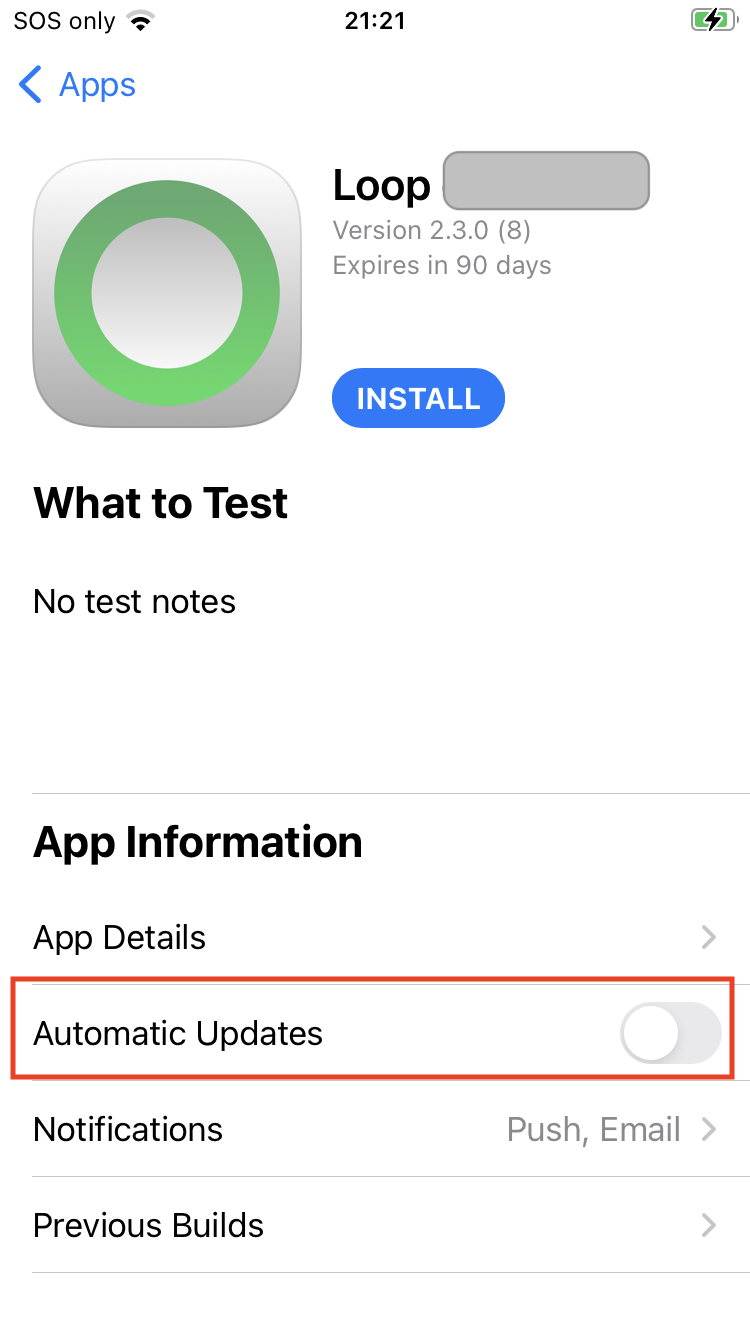
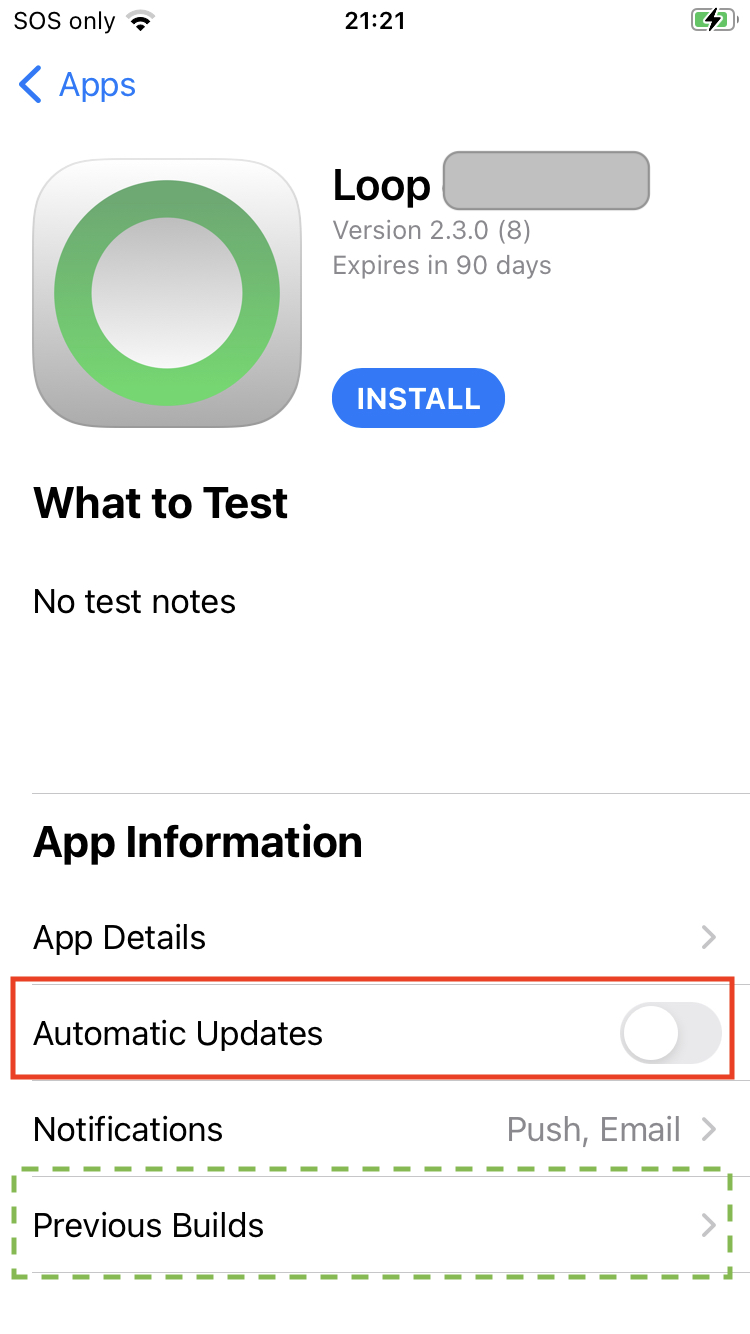
add highlight to previous builds in TestFlight graphic

diff --git a/docs/gh-actions/gh-deploy.md b/docs/gh-actions/gh-deploy.md
@@ -90,7 +90,7 @@ Go back to the *TestFlight* app on your phone and tap on your app name in the li
 
 When you are ready to install, just open the *TestFlight* app and click Install to get the most recent build and then click Open when it completes the installation. All your settings and connections to CGM and Pump are maintained.
 
-If you tap on the bottom row that says `Previous Builds`, you can view and choose an older build (as long as it has not expired).
+If you tap on the bottom row that says `Previous Builds`, highlighted by the dashed-green rectangle, you can view and choose an older build (as long as it has not expired).
 
 ## *TestFlight* for a Child
 
